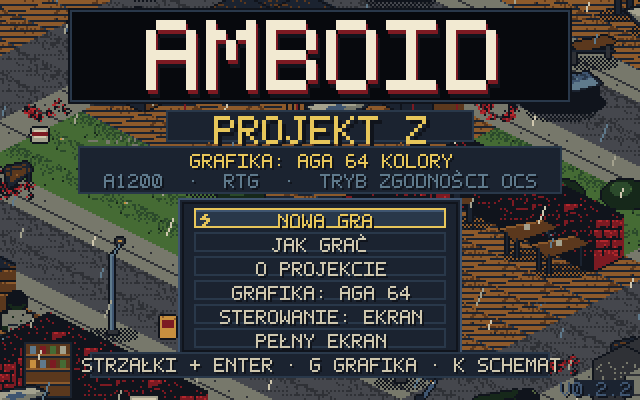
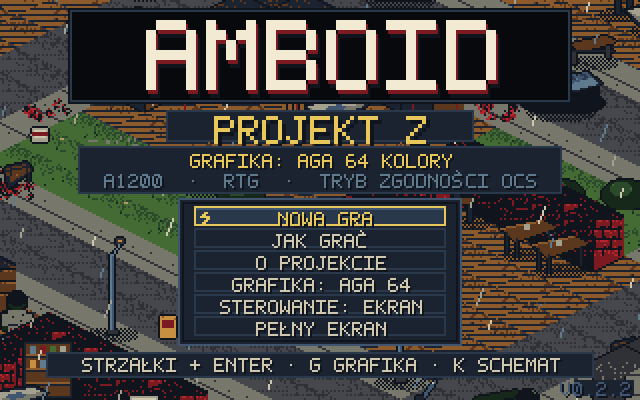
Tytuł: 6 pozycji menu i stopka bez nachodzenia

Changed region(s): [[0.2812, 0.51, 0.7188, 0.9], [0.8438, 0.87, 0.9375, 0.96], [0.0625, 0.87, 0.1562, 0.96]]

diff --git a/src/ui.js b/src/ui.js
@@ -95,14 +95,14 @@ export function drawTitle(game) {
   txt(scr, 'A1200  ·  RTG  ·  TRYB ZGODNOŚCI OCS', tx, 87, C.STEEL, { align: 'center' });
 
   // --- menu ---
-  scr.rect(90, 100, 140, 77, C.SHADOW);
-  scr.frame(89, 99, 142, 79, C.SLATE);
-  scr.frame(91, 101, 138, 75, C.OUTLINE);
-  menuList(game, 97, 104, 126, 10, 2);
+  scr.rect(90, 100, 140, 72, C.SHADOW);
+  scr.frame(89, 99, 142, 74, C.SLATE);
+  scr.frame(91, 101, 138, 70, C.OUTLINE);
+  menuList(game, 97, 103, 126, 10, 1);
 
   // --- stopka ---
-  scr.rect(46, 177, 228, 11, C.SHADOW);
-  scr.frame(45, 176, 230, 13, C.SLATE_DARK);
+  scr.rect(24, 177, 272, 11, C.SHADOW);
+  scr.frame(23, 176, 274, 13, C.SLATE_DARK);
   txt(scr, 'STRZAŁKI + ENTER · G GRAFIKA · K SCHEMAT', tx, 179, C.BONE, { align: 'center' });
   scr.rect(287, 190, 30, 8, C.SHADOW);
   txt(scr, 'V0.2.2', 315, 191, C.SLATE, { align: 'right' });
